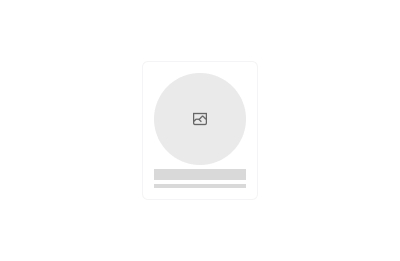
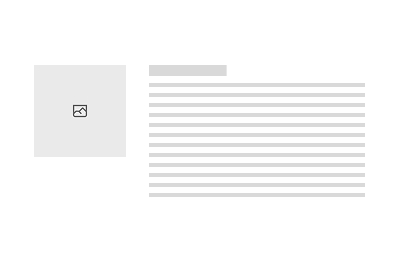
Update team and bio styles

Changed region(s): [[0.36, 0.2452, 0.93, 0.7663], [0.48, 0.4291, 0.54, 0.4904], [0.18, 0.3985, 0.24, 0.4598]]

diff --git a/src/blocks/Team/Team.tsx b/src/blocks/Team/Team.tsx
@@ -30,50 +30,54 @@ export const TeamBlock = ({ team, payload }: Props) => {
       <h2 className="text-3xl font-semi-bold">{team.name}</h2>
       <hr className="mt-2 mb-6" />
       <div className="grid grid-cols-1 sm:grid-cols-2 md:grid-cols-3 lg:grid-cols-4 xl:grid-cols-5 gap-6">
-        {teamMembers.map((member, index) => {
+        {teamMembers.map((member) => {
           const name: string =
             member.name || (typeof member.user === 'object' && member.user?.name) || 'Unknown'
           const initials = getAuthorInitials(name)
           return (
-            <div className="w-full flex  justify-center" key={index}>
+            <div className="w-full flex  justify-center" key={`bio__${member.id}`}>
               <div className="flex flex-col items-center space-y-4">
                 <Dialog>
-                  <DialogTrigger asChild>
+                  <DialogTrigger className="transition-transform duration-300 ease-in-out hover:scale-105 cursor-pointer">
                     <MediaAvatar
                       resource={member.photo}
                       fallback={initials}
-                      className="h-48 w-48 transition-transform duration-300 ease-in-out hover:scale-110 cursor-pointer"
+                      className="h-48 w-48 mb-2"
                     />
+                    <div className="text-center">
+                      <p className="text-md">{name}</p>
+                      {member.title && (
+                        <p className="text-sm italic text-muted-foreground mb-1">{member.title}</p>
+                      )}
+                      {member.start_date && (
+                        <p className="text-xs text-muted-foreground">
+                          Since {format(parseISO(member.start_date), 'MMMM yyyy')}
+                        </p>
+                      )}
+                    </div>
                   </DialogTrigger>
-                  <DialogContent>
-                    <DialogHeader className="flex flex-col items-center">
+                  <DialogContent className="max-h-screen max-w-3xl p-10 items-center overflow-y-scroll">
+                    <DialogHeader className="flex flex-col text-left mx-auto">
                       <MediaAvatar
                         resource={member.photo}
                         fallback={initials}
-                        className="h-32 w-32"
+                        className="h-72 w-72 mb-4"
                       />
-                      <DialogTitle>{name}</DialogTitle>
-                      <DialogDescription className=" text-sm font-medium text-muted-foreground">
-                        {member.title}
-                      </DialogDescription>
                     </DialogHeader>
-                    <p className="border-t pt-2 text-muted-foreground leading-relaxed">
-                      {member.biography}
-                    </p>
+                    <div className="flex space-x-3">
+                      <DialogTitle className="mb-1">{name}</DialogTitle>
+                      <DialogDescription className="text-muted-foreground flex">
+                        {member.title && <>{member.title}</>}
+                        {member.start_date && (
+                          <span className="italic">
+                            &nbsp;&mdash; Since {format(parseISO(member.start_date), 'MMMM yyyy')}
+                          </span>
+                        )}
+                      </DialogDescription>
+                    </div>
+                    <div className="text-muted-foreground leading-relaxed">{member.biography}</div>
                   </DialogContent>
                 </Dialog>
-
-                <div className="space-y-1 text-center">
-                  <p className="text-md">{name}</p>
-                  {member.title && (
-                    <p className="text-sm italic text-muted-foreground">{member.title}</p>
-                  )}
-                  {member.start_date && (
-                    <p className="text-xs text-muted-foreground">
-                      Since {format(parseISO(member.start_date), 'MMMM yyyy')}
-                    </p>
-                  )}
-                </div>
               </div>
             </div>
           )

diff --git a/src/blocks/Biography/Biography.tsx b/src/blocks/Biography/Biography.tsx
@@ -40,9 +40,9 @@ export const BiographyBlock = ({ backgroundColor, biography, imageLayout, payloa
             />
           </div>
           <div className={`md:col-span-8 self-center ${textColor}`}>
-            <div className="mb-4">
-              <p className="text-md">{name}</p>
-              {biography.title && <p className="text-md italic">{biography.title}</p>}
+            <div className="prose mb-4">
+              <h2 className="mb-0 font-normal leading-none">{name}</h2>
+              {biography.title && <h3 className="italic font-normal mb-0">{biography.title}</h3>}
               {biography.start_date && (
                 <p className="text-sm">
                   Since {format(parseISO(biography.start_date), 'MMMM yyyy')}
